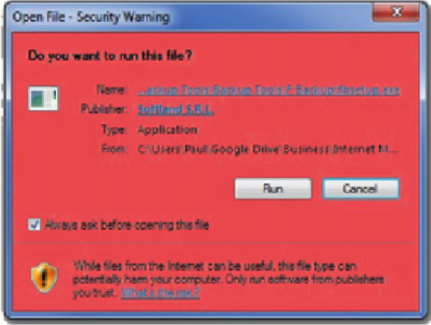
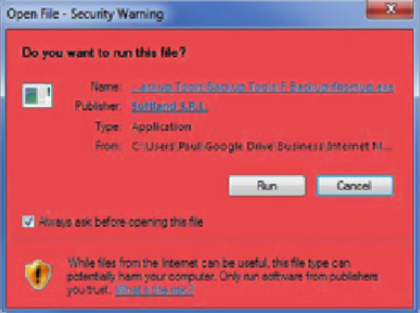
improves the appearance of alerts

diff --git a/frontend/public/index.html b/frontend/public/index.html
@@ -10,7 +10,24 @@
     <p id="serverMessage"></p>
 
     <input type="text" id="user" placeholder="User">
-    <div id="instruction">Kiedy będziesz gotowy przystąpić do działania kliknij przycisk START</div>
+    <div id="instruction">
+        Drogi użytkowniku. Twój udział w grze, w której zaraz weźmiesz udział jest mi bardzo potrzebny do zebrania wyników do pracy magisterskiej. </br>
+        Już teraz dziękuję Ci uprzejmie za poświęcony czas. Udział powinien zająć około 10 minut, a o końcu rozgrywki zostaniesz poinformowany. </br> 
+        Wpisz proszę w polę wyżej swoje imię lub pseudonim. </br> </br>
+
+        Czeka na Ciebie gra, gdzie wyświetlane będą napisy reprezentujące różne kolory. Te napisy też będą pojawiać się w różnych kolorach. </br> Przykładowo, może pojawić się napis
+        <h3 style="color: green; margin: 5px; padding: 0;">NIEBIESKI</h3>
+        ale kolor czcionki będzie zielony. Pod tymi zmieniającymi się napisami umiejscowiona została paleta kolorów. Twoim zadaniem będzie zaznaczenie odpowiedniego </br>
+        koloru z palety zgodnie z tym czy masz zaznaczyć kolor jaki reprezentuje napis czy kolor czcionki. Wróćmy do wcześnijszego przykładu. Jeśli podświetlony będzie napis 
+        <h3 class="activeQuestion" style="margin: 0px; margin-top: 25px; padding: 0;">KOLOR</h3> to z palety wybierz kolor czcionki (dla napisu "NIEBIESKI" napisanego zieloną 
+        czcionką będzie to kolor <h3 style="color: green; display: inline-block;">■</h3>). Natomiast jeśli podświetlony będzie napis 
+        <h3 class="activeQuestion" style="margin: 0px; margin: 0; padding: 0;">TEKST</h3> to zaznacz z palety kolor, który reprezentuje napis
+        (dla napisu "NIEBIESKI" napisanego zieloną czcionką będzie to kolor <h3 style="color: blue; display: inline-block;">■</h3>). </br>
+
+        Podczas trwania tego zadania, będą pojawiały się różne komunikaty ostrzegawcze, które będą Cię rozpraszać. Istotne jest drogi użytkowniku, abyś te komunikaty jak </br>
+        najszybciej próbował zamykać za pomocą znajdującego się w ich obszarze zielonego przycisku. Zamykaj je jak tylko je zauważysz! </br> </br>
+        
+        Kiedy będziesz gotowy przystąpić do działania kliknij przycisk START</div>
     <button id="startBtn">START</button>
 
     <div id="container">

diff --git a/frontend/public/css/styles.css b/frontend/public/css/styles.css
@@ -15,7 +15,7 @@ body {
 	padding: 10px 20px;
 	margin: 40px;
     text-align: center;
-    font-size: 24px;
+    font-size: 20px;
 }
 
 #startBtn {
@@ -94,27 +94,27 @@ body {
 
 #alert {
     position: fixed;
-    width: auto;
-    height: auto;
     bottom: 0;
     right: 0;
-	display: none;
-}
-
-#alertImage {
+    display: none;
+    padding: 0;
+  }
+  
+  #alertImage {
+    display: block;
     width: 100%;
     height: auto;
-    display: inline;
-}
-
-#exitAlertBtn {
-    position: fixed;
+  }
+  
+  #exitAlertBtn {
+    position: absolute;
+    bottom: 10px;
+    left: 50%;
+    transform: translateX(-50%);
     background-color: rgb(0, 255, 0);
     padding: 10px 20px;
     font-size: 16px;
     cursor: pointer;
-    width: 380px;
+    width: 360px;
     height: 46px;
-    bottom: 5px;
-    right: 10px;
-}
+  }
